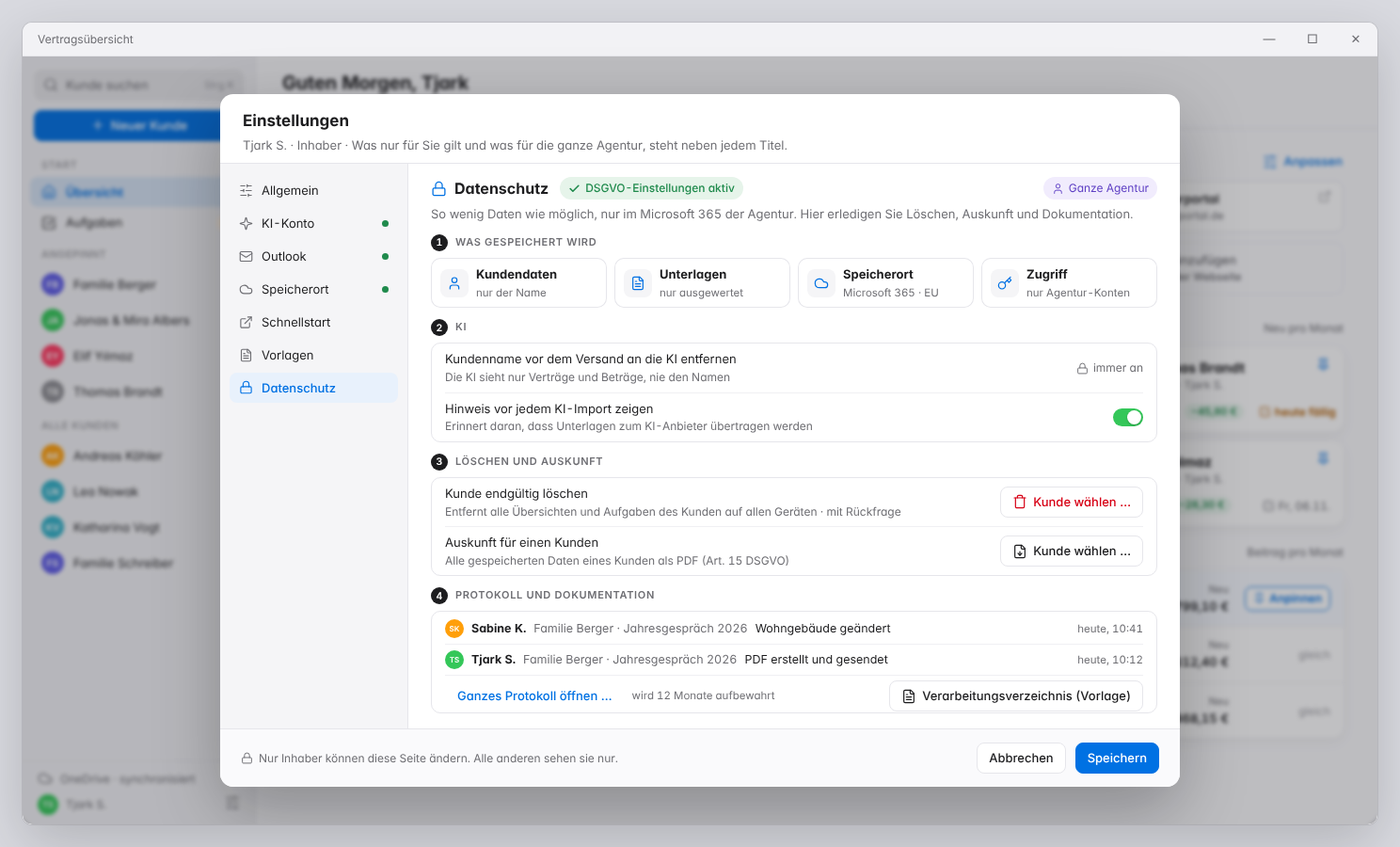
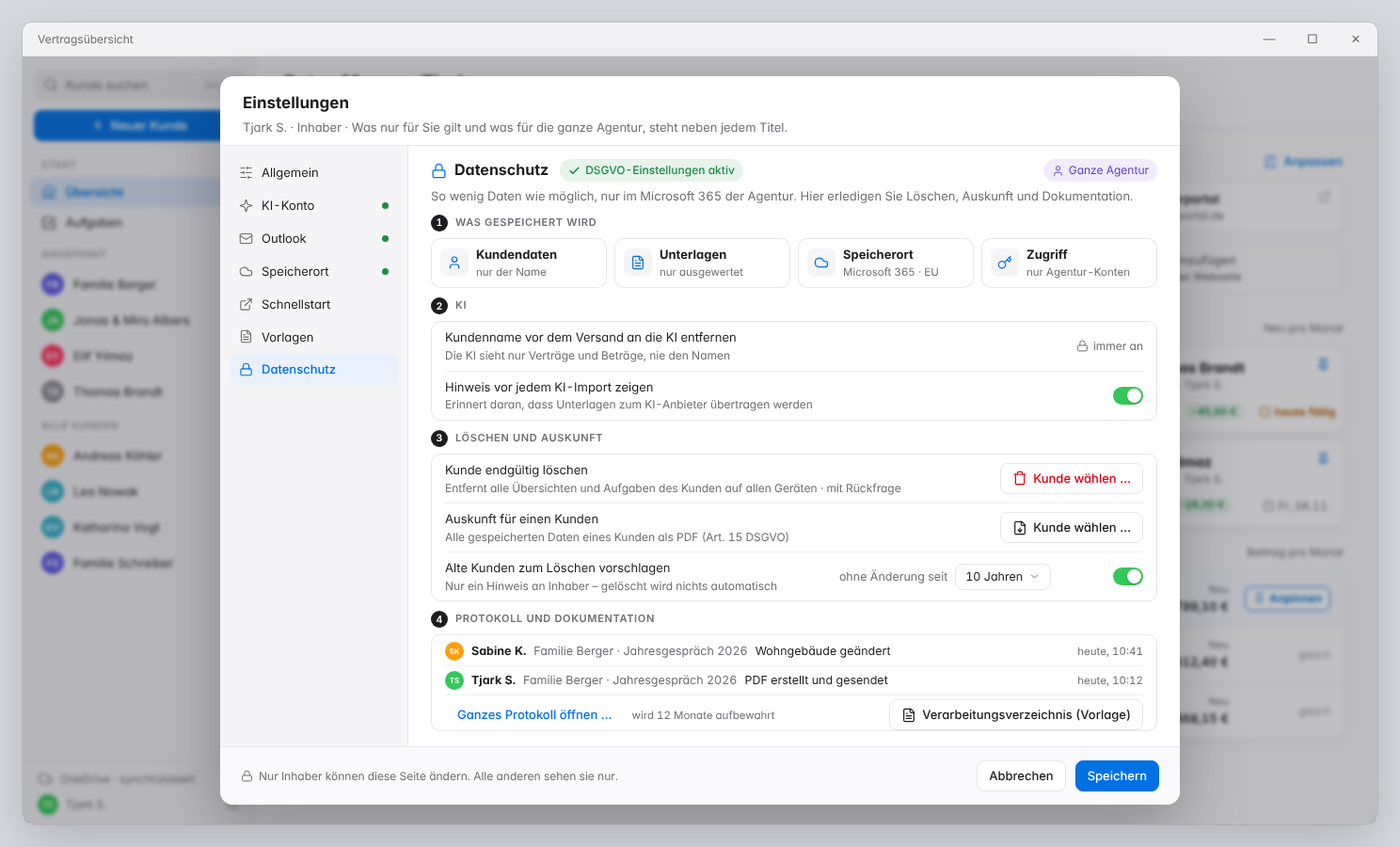
Bild 16 v1: Aufbewahrung – alte Kunden zum Löschen vorschlagen
Claude-Session: https://claude.ai/code/session_01AQcgmB5JhXXMxFr524NBj8

Changed region(s): [[0.1546, 0.0622, 0.8656, 0.9644], [0.6183, 0.56, 0.8347, 0.6844], [0.7728, 0.4044, 0.8347, 0.4978]]

diff --git a/mockups/einstellungen-datenschutz.html b/mockups/einstellungen-datenschutz.html
@@ -16,7 +16,7 @@
     <div class="row"><svg class="i" viewBox="0 0 24 24"><path d="M17.5 19H9a7 7 0 1 1 6.71-9h1.79a4.5 4.5 0 1 1 0 9Z"/></svg> OneDrive · synchronisiert <span class="dot" style="margin-left:auto"></span></div>
     <div class="row"><span class="avatar a4" style="width:22px;height:22px;font-size:9px">TS</span> Tjark S. <span style="margin-left:auto"><svg class="i" viewBox="0 0 24 24"><line x1="21" x2="14" y1="4" y2="4"/><line x1="10" x2="3" y1="4" y2="4"/><line x1="21" x2="12" y1="12" y2="12"/><line x1="8" x2="3" y1="12" y2="12"/><line x1="21" x2="16" y1="20" y2="20"/><line x1="12" x2="3" y1="20" y2="20"/><line x1="14" x2="14" y1="2" y2="6"/><line x1="8" x2="8" y1="10" y2="14"/><line x1="16" x2="16" y1="18" y2="22"/></svg></span></div>
   </div>
-</aside><main class="main"><div class="toolbar start"><div><h1>Guten Morgen, Tjark</h1><div class="datum">Montag, 2. November 2026</div></div></div><div class="content narrow start"><div class="section-title">Schnellstart<span class="spacer"></span><span class="btn ghost" style="padding:0"><svg class="i" viewBox="0 0 24 24"><line x1="21" x2="14" y1="4" y2="4"/><line x1="10" x2="3" y1="4" y2="4"/><line x1="21" x2="12" y1="12" y2="12"/><line x1="8" x2="3" y1="12" y2="12"/><line x1="21" x2="16" y1="20" y2="20"/><line x1="12" x2="3" y1="20" y2="20"/><line x1="14" x2="14" y1="2" y2="6"/><line x1="8" x2="8" y1="10" y2="14"/><line x1="16" x2="16" y1="18" y2="22"/></svg> Anpassen</span></div><div class="links"><div class="lnk"><span class="sym" style="color:#0a64d0;background:#0a64d014"><svg class="i" viewBox="0 0 24 24"><rect width="20" height="16" x="2" y="4" rx="2"/><path d="m22 7-8.97 5.7a1.94 1.94 0 0 1-2.06 0L2 7"/></svg></span><div><b>Outlook</b><small>App</small></div><svg class="i ext" viewBox="0 0 24 24"><path d="M15 3h6v6"/><path d="M10 14 21 3"/><path d="M18 13v6a2 2 0 0 1-2 2H5a2 2 0 0 1-2-2V8a2 2 0 0 1 2-2h6"/></svg></div><div class="lnk"><span class="sym" style="color:#4b53bc;background:#4b53bc14"><svg class="i" viewBox="0 0 24 24"><path d="M7.9 20A9 9 0 1 0 4 16.1L2 22Z"/></svg></span><div><b>Teams</b><small>App</small></div><svg class="i ext" viewBox="0 0 24 24"><path d="M15 3h6v6"/><path d="M10 14 21 3"/><path d="M18 13v6a2 2 0 0 1-2 2H5a2 2 0 0 1-2-2V8a2 2 0 0 1 2-2h6"/></svg></div><div class="lnk"><span class="sym" style="color:#d63a5a;background:#d63a5a14"><svg class="i" viewBox="0 0 24 24"><rect width="18" height="18" x="3" y="4" rx="2"/><path d="M16 2v4"/><path d="M8 2v4"/><path d="M3 10h18"/></svg></span><div><b>Kalender</b><small>App</small></div><svg class="i ext" viewBox="0 0 24 24"><path d="M15 3h6v6"/><path d="M10 14 21 3"/><path d="M18 13v6a2 2 0 0 1-2 2H5a2 2 0 0 1-2-2V8a2 2 0 0 1 2-2h6"/></svg></div><div class="lnk"><span class="sym" style="color:#5e5ce6;background:#5e5ce614"><svg class="i" viewBox="0 0 24 24"><circle cx="12" cy="12" r="10"/><path d="M12 2a14.5 14.5 0 0 0 0 20 14.5 14.5 0 0 0 0-20"/><path d="M2 12h20"/></svg></span><div><b>Maklerportal</b><small>maklerportal.de</small></div><svg class="i ext" viewBox="0 0 24 24"><path d="M15 3h6v6"/><path d="M10 14 21 3"/><path d="M18 13v6a2 2 0 0 1-2 2H5a2 2 0 0 1-2-2V8a2 2 0 0 1 2-2h6"/></svg></div><div class="lnk"><span class="sym" style="color:#c77800;background:#c7780014"><svg class="i" viewBox="0 0 24 24"><rect width="16" height="20" x="4" y="2" rx="2"/><line x1="8" x2="16" y1="6" y2="6"/><line x1="16" x2="16" y1="14" y2="18"/><path d="M16 10h.01"/><path d="M12 10h.01"/><path d="M8 10h.01"/><path d="M12 14h.01"/><path d="M8 14h.01"/><path d="M12 18h.01"/><path d="M8 18h.01"/></svg></span><div><b>Vergleichsrechner</b><small>vergleich.de</small></div><svg class="i ext" viewBox="0 0 24 24"><path d="M15 3h6v6"/><path d="M10 14 21 3"/><path d="M18 13v6a2 2 0 0 1-2 2H5a2 2 0 0 1-2-2V8a2 2 0 0 1 2-2h6"/></svg></div><div class="lnk"><span class="sym" style="color:#1f8a4c;background:#1f8a4c14"><svg class="i" viewBox="0 0 24 24"><path d="M19 17h2c.6 0 1-.4 1-1v-3c0-.9-.7-1.7-1.5-1.9C18.7 10.6 16 10 16 10s-1.3-1.4-2.2-2.3c-.5-.4-1.1-.7-1.8-.7H5c-.6 0-1.1.4-1.4.9l-1.4 2.9A3.7 3.7 0 0 0 2 12v4c0 .6.4 1 1 1h2"/><circle cx="7" cy="17" r="2"/><path d="M9 17h6"/><circle cx="17" cy="17" r="2"/></svg></span><div><b>Tarifrechner Kfz</b><small>kfz-tarif.de</small></div><svg class="i ext" viewBox="0 0 24 24"><path d="M15 3h6v6"/><path d="M10 14 21 3"/><path d="M18 13v6a2 2 0 0 1-2 2H5a2 2 0 0 1-2-2V8a2 2 0 0 1 2-2h6"/></svg></div><div class="lnk"><span class="sym" style="color:#1f7f95;background:#1f7f9514"><svg class="i" viewBox="0 0 24 24"><line x1="3" x2="21" y1="22" y2="22"/><line x1="6" x2="6" y1="18" y2="11"/><line x1="10" x2="10" y1="18" y2="11"/><line x1="14" x2="14" y1="18" y2="11"/><line x1="18" x2="18" y1="18" y2="11"/><polygon points="12 2 20 7 4 7"/></svg></span><div><b>Bank-Portal</b><small>bank-partner.de</small></div><svg class="i ext" viewBox="0 0 24 24"><path d="M15 3h6v6"/><path d="M10 14 21 3"/><path d="M18 13v6a2 2 0 0 1-2 2H5a2 2 0 0 1-2-2V8a2 2 0 0 1 2-2h6"/></svg></div><div class="lnk add"><span class="sym"><svg class="i" viewBox="0 0 24 24"><path d="M5 12h14"/><path d="M12 5v14"/></svg></span><div><b>Link hinzufügen</b><small>App oder Webseite</small></div></div></div><div class="grid-start"><div><div class="section-title">Aufgaben<span class="spacer"></span><span class="btn ghost" style="padding:0"><svg class="i" viewBox="0 0 24 24"><path d="M5 12h14"/><path d="M12 5v14"/></svg> Aufgabe</span></div><div class="panel"><div class="tgroup rot"><span>Überfällig</span><em>1</em></div><div class="trow"><span class="box"></span><div class="tmain"><div class="kunde"><span class="avatar a1">FB</span>Familie Berger</div><div class="ttext">Kfz-Angebot senden</div></div><div class="tside"><span class="prio"><svg class="i" viewBox="0 0 24 24"><path d="M4 15s1-1 4-1 5 2 8 2 4-1 4-1V3s-1 1-4 1-5-2-8-2-4 1-4 1z"/><line x1="4" x2="4" y1="22" y2="15"/></svg> Hoch</span><span class="due over">seit 2 Tagen</span></div><span class="go"><svg class="i" viewBox="0 0 24 24"><path d="m9 18 6-6-6-6"/></svg></span></div><div class="tgroup orange"><span>Heute</span><em>2</em></div><div class="trow hover"><span class="box"></span><div class="tmain"><div class="kunde"><span class="avatar ">TB</span>Thomas Brandt</div><div class="ttext">Unterlagen BU-Antrag anfordern</div></div><div class="tside"><span class="prio"><svg class="i" viewBox="0 0 24 24"><path d="M4 15s1-1 4-1 5 2 8 2 4-1 4-1V3s-1 1-4 1-5-2-8-2-4 1-4 1z"/><line x1="4" x2="4" y1="22" y2="15"/></svg> Hoch</span><span class="due today">heute</span></div><span class="go on">Übersicht öffnen <svg class="i" viewBox="0 0 24 24"><path d="m9 18 6-6-6-6"/></svg></span></div><div class="trow"><span class="box"></span><div class="tmain"><div class="kunde"><span class="avatar a3">LN</span>Lea Nowak</div><div class="ttext">Rückruf wegen Bausparvertrag</div></div><div class="tside"><span class="due today">heute</span></div><span class="go"><svg class="i" viewBox="0 0 24 24"><path d="m9 18 6-6-6-6"/></svg></span></div><div class="tgroup "><span>Diese Woche</span><em>2</em></div><div class="trow"><span class="box"></span><div class="tmain"><div class="kunde"><span class="avatar a4">JA</span>Jonas & Mira Albers</div><div class="ttext">Termin Baufinanzierung vorbereiten</div></div><div class="tside"><span class="due ">Do, 05.11.</span></div><span class="go"><svg class="i" viewBox="0 0 24 24"><path d="m9 18 6-6-6-6"/></svg></span></div><div class="trow"><span class="box"></span><div class="tmain"><div class="kunde"><span class="avatar a5">EY</span>Elif Yılmaz</div><div class="ttext">Hausrat-Angebot nachfassen</div></div><div class="tside"><span class="due ">Fr, 06.11.</span></div><span class="go"><svg class="i" viewBox="0 0 24 24"><path d="m9 18 6-6-6-6"/></svg></span></div><div class="tmore">Später: 2 weitere Aufgaben anzeigen</div></div></div><div><div class="section-title"><svg class="i pin-t" viewBox="0 0 24 24"><path d="M12 17v5"/><path d="M9 10.76a2 2 0 0 1-1.11 1.79l-1.78.9A2 2 0 0 0 5 15.24V16a1 1 0 0 0 1 1h12a1 1 0 0 0 1-1v-.76a2 2 0 0 0-1.11-1.79l-1.78-.9A2 2 0 0 1 15 10.76V7a1 1 0 0 1 1-1 2 2 0 0 0 0-4H8a2 2 0 0 0 0 4 1 1 0 0 1 1 1z"/></svg> Angepinnt<span class="hdr-note">4 von 4</span><span class="spacer"></span><span class="hdr-note">Neu pro Monat</span></div><div class="pins"><div class="pcard"><div class="ptop"><span class="avatar a1">FB</span><div class="cmain"><b>Familie Berger</b><small><span class="live"><span class="avatar a2">SK</span>Sabine K. ist gerade drin</span></small></div><svg class="i pin" viewBox="0 0 24 24"><path d="M12 17v5"/><path d="M9 10.76a2 2 0 0 1-1.11 1.79l-1.78.9A2 2 0 0 0 5 15.24V16a1 1 0 0 0 1 1h12a1 1 0 0 0 1-1v-.76a2 2 0 0 0-1.11-1.79l-1.78-.9A2 2 0 0 1 15 10.76V7a1 1 0 0 1 1-1 2 2 0 0 0 0-4H8a2 2 0 0 0 0 4 1 1 0 0 1 1 1z"/></svg></div><div class="pvals"><b>2.007,85 €</b><span class="badge green">−25,40 €</span><span class="spacer"></span><span class="pt over"><svg class="i" viewBox="0 0 24 24"><path d="M21 10.5V19a2 2 0 0 1-2 2H5a2 2 0 0 1-2-2V5a2 2 0 0 1 2-2h12.5"/><path d="m9 11 3 3L22 4"/></svg> überfällig</span></div></div><div class="pcard"><div class="ptop"><span class="avatar ">TB</span><div class="cmain"><b>Thomas Brandt</b><small>29.10. · Tjark S.</small></div><svg class="i pin" viewBox="0 0 24 24"><path d="M12 17v5"/><path d="M9 10.76a2 2 0 0 1-1.11 1.79l-1.78.9A2 2 0 0 0 5 15.24V16a1 1 0 0 0 1 1h12a1 1 0 0 0 1-1v-.76a2 2 0 0 0-1.11-1.79l-1.78-.9A2 2 0 0 1 15 10.76V7a1 1 0 0 1 1-1 2 2 0 0 0 0-4H8a2 2 0 0 0 0 4 1 1 0 0 1 1 1z"/></svg></div><div class="pvals"><b>1.483,20 €</b><span class="badge green">−45,80 €</span><span class="spacer"></span><span class="pt today"><svg class="i" viewBox="0 0 24 24"><path d="M21 10.5V19a2 2 0 0 1-2 2H5a2 2 0 0 1-2-2V5a2 2 0 0 1 2-2h12.5"/><path d="m9 11 3 3L22 4"/></svg> heute fällig</span></div></div><div class="pcard"><div class="ptop"><span class="avatar a4">JA</span><div class="cmain"><b>Jonas & Mira Albers</b><small>26.10. · Sabine K.</small></div><svg class="i pin" viewBox="0 0 24 24"><path d="M12 17v5"/><path d="M9 10.76a2 2 0 0 1-1.11 1.79l-1.78.9A2 2 0 0 0 5 15.24V16a1 1 0 0 0 1 1h12a1 1 0 0 0 1-1v-.76a2 2 0 0 0-1.11-1.79l-1.78-.9A2 2 0 0 1 15 10.76V7a1 1 0 0 1 1-1 2 2 0 0 0 0-4H8a2 2 0 0 0 0 4 1 1 0 0 1 1 1z"/></svg></div><div class="pvals"><b>2.388,10 €</b><span class="badge green">−27,50 €</span><span class="spacer"></span><span class="pt "><svg class="i" viewBox="0 0 24 24"><path d="M21 10.5V19a2 2 0 0 1-2 2H5a2 2 0 0 1-2-2V5a2 2 0 0 1 2-2h12.5"/><path d="m9 11 3 3L22 4"/></svg> Do, 05.11.</span></div></div><div class="pcard"><div class="ptop"><span class="avatar a5">EY</span><div class="cmain"><b>Elif Yılmaz</b><small>22.10. · Tjark S.</small></div><svg class="i pin" viewBox="0 0 24 24"><path d="M12 17v5"/><path d="M9 10.76a2 2 0 0 1-1.11 1.79l-1.78.9A2 2 0 0 0 5 15.24V16a1 1 0 0 0 1 1h12a1 1 0 0 0 1-1v-.76a2 2 0 0 0-1.11-1.79l-1.78-.9A2 2 0 0 1 15 10.76V7a1 1 0 0 1 1-1 2 2 0 0 0 0-4H8a2 2 0 0 0 0 4 1 1 0 0 1 1 1z"/></svg></div><div class="pvals"><b>361,20 €</b><span class="badge green">−28,30 €</span><span class="spacer"></span><span class="pt "><svg class="i" viewBox="0 0 24 24"><path d="M21 10.5V19a2 2 0 0 1-2 2H5a2 2 0 0 1-2-2V5a2 2 0 0 1 2-2h12.5"/><path d="m9 11 3 3L22 4"/></svg> Fr, 06.11.</span></div></div></div><div class="section-title" style="margin-top:18px">Zuletzt bearbeitet<span class="spacer"></span><span class="hdr-note">Beitrag pro Monat</span></div><div class="panel"><div class="crow hover"><span class="avatar a3">LN</span><div class="cmain"><b>Lea Nowak</b><small>heute, 09:12 · Tjark S.</small></div><div class="cval"><small>Aktuell</small>847,30 €</div><div class="cval"><small>Neu</small>799,10 €</div><div class="cdiff"><span class="badge green">−48,20 €</span></div><span class="pinbtn on"><svg class="i" viewBox="0 0 24 24"><path d="M12 17v5"/><path d="M9 10.76a2 2 0 0 1-1.11 1.79l-1.78.9A2 2 0 0 0 5 15.24V16a1 1 0 0 0 1 1h12a1 1 0 0 0 1-1v-.76a2 2 0 0 0-1.11-1.79l-1.78-.9A2 2 0 0 1 15 10.76V7a1 1 0 0 1 1-1 2 2 0 0 0 0-4H8a2 2 0 0 0 0 4 1 1 0 0 1 1 1z"/></svg> Anpinnen</span></div><div class="crow"><span class="avatar a2">AK</span><div class="cmain"><b>Andreas Köhler</b><small>gestern · Sabine K.</small></div><div class="cval"><small>Aktuell</small>312,40 €</div><div class="cval"><small>Neu</small>312,40 €</div><div class="cdiff"><span class="diff0">gleich</span></div><span class="pinbtn"><svg class="i" viewBox="0 0 24 24"><path d="M12 17v5"/><path d="M9 10.76a2 2 0 0 1-1.11 1.79l-1.78.9A2 2 0 0 0 5 15.24V16a1 1 0 0 0 1 1h12a1 1 0 0 0 1-1v-.76a2 2 0 0 0-1.11-1.79l-1.78-.9A2 2 0 0 1 15 10.76V7a1 1 0 0 1 1-1 2 2 0 0 0 0-4H8a2 2 0 0 0 0 4 1 1 0 0 1 1 1z"/></svg></span></div><div class="crow"><span class="avatar a3">KV</span><div class="cmain"><b>Katharina Vogt</b><small>27.10. · Tjark S.</small></div><div class="cval"><small>Aktuell</small>468,15 €</div><div class="cval"><small>Neu</small>468,15 €</div><div class="cdiff"><span class="diff0">gleich</span></div><span class="pinbtn"><svg class="i" viewBox="0 0 24 24"><path d="M12 17v5"/><path d="M9 10.76a2 2 0 0 1-1.11 1.79l-1.78.9A2 2 0 0 0 5 15.24V16a1 1 0 0 0 1 1h12a1 1 0 0 0 1-1v-.76a2 2 0 0 0-1.11-1.79l-1.78-.9A2 2 0 0 1 15 10.76V7a1 1 0 0 1 1-1 2 2 0 0 0 0-4H8a2 2 0 0 0 0 4 1 1 0 0 1 1 1z"/></svg></span></div></div></div></div></div></main></div><div class="overlay"><div class="sheet kk1 es1">
+</aside><main class="main"><div class="toolbar start"><div><h1>Guten Morgen, Tjark</h1><div class="datum">Montag, 2. November 2026</div></div></div><div class="content narrow start"><div class="section-title">Schnellstart<span class="spacer"></span><span class="btn ghost" style="padding:0"><svg class="i" viewBox="0 0 24 24"><line x1="21" x2="14" y1="4" y2="4"/><line x1="10" x2="3" y1="4" y2="4"/><line x1="21" x2="12" y1="12" y2="12"/><line x1="8" x2="3" y1="12" y2="12"/><line x1="21" x2="16" y1="20" y2="20"/><line x1="12" x2="3" y1="20" y2="20"/><line x1="14" x2="14" y1="2" y2="6"/><line x1="8" x2="8" y1="10" y2="14"/><line x1="16" x2="16" y1="18" y2="22"/></svg> Anpassen</span></div><div class="links"><div class="lnk"><span class="sym" style="color:#0a64d0;background:#0a64d014"><svg class="i" viewBox="0 0 24 24"><rect width="20" height="16" x="2" y="4" rx="2"/><path d="m22 7-8.97 5.7a1.94 1.94 0 0 1-2.06 0L2 7"/></svg></span><div><b>Outlook</b><small>App</small></div><svg class="i ext" viewBox="0 0 24 24"><path d="M15 3h6v6"/><path d="M10 14 21 3"/><path d="M18 13v6a2 2 0 0 1-2 2H5a2 2 0 0 1-2-2V8a2 2 0 0 1 2-2h6"/></svg></div><div class="lnk"><span class="sym" style="color:#4b53bc;background:#4b53bc14"><svg class="i" viewBox="0 0 24 24"><path d="M7.9 20A9 9 0 1 0 4 16.1L2 22Z"/></svg></span><div><b>Teams</b><small>App</small></div><svg class="i ext" viewBox="0 0 24 24"><path d="M15 3h6v6"/><path d="M10 14 21 3"/><path d="M18 13v6a2 2 0 0 1-2 2H5a2 2 0 0 1-2-2V8a2 2 0 0 1 2-2h6"/></svg></div><div class="lnk"><span class="sym" style="color:#d63a5a;background:#d63a5a14"><svg class="i" viewBox="0 0 24 24"><rect width="18" height="18" x="3" y="4" rx="2"/><path d="M16 2v4"/><path d="M8 2v4"/><path d="M3 10h18"/></svg></span><div><b>Kalender</b><small>App</small></div><svg class="i ext" viewBox="0 0 24 24"><path d="M15 3h6v6"/><path d="M10 14 21 3"/><path d="M18 13v6a2 2 0 0 1-2 2H5a2 2 0 0 1-2-2V8a2 2 0 0 1 2-2h6"/></svg></div><div class="lnk"><span class="sym" style="color:#5e5ce6;background:#5e5ce614"><svg class="i" viewBox="0 0 24 24"><circle cx="12" cy="12" r="10"/><path d="M12 2a14.5 14.5 0 0 0 0 20 14.5 14.5 0 0 0 0-20"/><path d="M2 12h20"/></svg></span><div><b>Maklerportal</b><small>maklerportal.de</small></div><svg class="i ext" viewBox="0 0 24 24"><path d="M15 3h6v6"/><path d="M10 14 21 3"/><path d="M18 13v6a2 2 0 0 1-2 2H5a2 2 0 0 1-2-2V8a2 2 0 0 1 2-2h6"/></svg></div><div class="lnk"><span class="sym" style="color:#c77800;background:#c7780014"><svg class="i" viewBox="0 0 24 24"><rect width="16" height="20" x="4" y="2" rx="2"/><line x1="8" x2="16" y1="6" y2="6"/><line x1="16" x2="16" y1="14" y2="18"/><path d="M16 10h.01"/><path d="M12 10h.01"/><path d="M8 10h.01"/><path d="M12 14h.01"/><path d="M8 14h.01"/><path d="M12 18h.01"/><path d="M8 18h.01"/></svg></span><div><b>Vergleichsrechner</b><small>vergleich.de</small></div><svg class="i ext" viewBox="0 0 24 24"><path d="M15 3h6v6"/><path d="M10 14 21 3"/><path d="M18 13v6a2 2 0 0 1-2 2H5a2 2 0 0 1-2-2V8a2 2 0 0 1 2-2h6"/></svg></div><div class="lnk"><span class="sym" style="color:#1f8a4c;background:#1f8a4c14"><svg class="i" viewBox="0 0 24 24"><path d="M19 17h2c.6 0 1-.4 1-1v-3c0-.9-.7-1.7-1.5-1.9C18.7 10.6 16 10 16 10s-1.3-1.4-2.2-2.3c-.5-.4-1.1-.7-1.8-.7H5c-.6 0-1.1.4-1.4.9l-1.4 2.9A3.7 3.7 0 0 0 2 12v4c0 .6.4 1 1 1h2"/><circle cx="7" cy="17" r="2"/><path d="M9 17h6"/><circle cx="17" cy="17" r="2"/></svg></span><div><b>Tarifrechner Kfz</b><small>kfz-tarif.de</small></div><svg class="i ext" viewBox="0 0 24 24"><path d="M15 3h6v6"/><path d="M10 14 21 3"/><path d="M18 13v6a2 2 0 0 1-2 2H5a2 2 0 0 1-2-2V8a2 2 0 0 1 2-2h6"/></svg></div><div class="lnk"><span class="sym" style="color:#1f7f95;background:#1f7f9514"><svg class="i" viewBox="0 0 24 24"><line x1="3" x2="21" y1="22" y2="22"/><line x1="6" x2="6" y1="18" y2="11"/><line x1="10" x2="10" y1="18" y2="11"/><line x1="14" x2="14" y1="18" y2="11"/><line x1="18" x2="18" y1="18" y2="11"/><polygon points="12 2 20 7 4 7"/></svg></span><div><b>Bank-Portal</b><small>bank-partner.de</small></div><svg class="i ext" viewBox="0 0 24 24"><path d="M15 3h6v6"/><path d="M10 14 21 3"/><path d="M18 13v6a2 2 0 0 1-2 2H5a2 2 0 0 1-2-2V8a2 2 0 0 1 2-2h6"/></svg></div><div class="lnk add"><span class="sym"><svg class="i" viewBox="0 0 24 24"><path d="M5 12h14"/><path d="M12 5v14"/></svg></span><div><b>Link hinzufügen</b><small>App oder Webseite</small></div></div></div><div class="grid-start"><div><div class="section-title">Aufgaben<span class="spacer"></span><span class="btn ghost" style="padding:0"><svg class="i" viewBox="0 0 24 24"><path d="M5 12h14"/><path d="M12 5v14"/></svg> Aufgabe</span></div><div class="panel"><div class="tgroup rot"><span>Überfällig</span><em>1</em></div><div class="trow"><span class="box"></span><div class="tmain"><div class="kunde"><span class="avatar a1">FB</span>Familie Berger</div><div class="ttext">Kfz-Angebot senden</div></div><div class="tside"><span class="prio"><svg class="i" viewBox="0 0 24 24"><path d="M4 15s1-1 4-1 5 2 8 2 4-1 4-1V3s-1 1-4 1-5-2-8-2-4 1-4 1z"/><line x1="4" x2="4" y1="22" y2="15"/></svg> Hoch</span><span class="due over">seit 2 Tagen</span></div><span class="go"><svg class="i" viewBox="0 0 24 24"><path d="m9 18 6-6-6-6"/></svg></span></div><div class="tgroup orange"><span>Heute</span><em>2</em></div><div class="trow hover"><span class="box"></span><div class="tmain"><div class="kunde"><span class="avatar ">TB</span>Thomas Brandt</div><div class="ttext">Unterlagen BU-Antrag anfordern</div></div><div class="tside"><span class="prio"><svg class="i" viewBox="0 0 24 24"><path d="M4 15s1-1 4-1 5 2 8 2 4-1 4-1V3s-1 1-4 1-5-2-8-2-4 1-4 1z"/><line x1="4" x2="4" y1="22" y2="15"/></svg> Hoch</span><span class="due today">heute</span></div><span class="go on">Übersicht öffnen <svg class="i" viewBox="0 0 24 24"><path d="m9 18 6-6-6-6"/></svg></span></div><div class="trow"><span class="box"></span><div class="tmain"><div class="kunde"><span class="avatar a3">LN</span>Lea Nowak</div><div class="ttext">Rückruf wegen Bausparvertrag</div></div><div class="tside"><span class="due today">heute</span></div><span class="go"><svg class="i" viewBox="0 0 24 24"><path d="m9 18 6-6-6-6"/></svg></span></div><div class="tgroup "><span>Diese Woche</span><em>2</em></div><div class="trow"><span class="box"></span><div class="tmain"><div class="kunde"><span class="avatar a4">JA</span>Jonas & Mira Albers</div><div class="ttext">Termin Baufinanzierung vorbereiten</div></div><div class="tside"><span class="due ">Do, 05.11.</span></div><span class="go"><svg class="i" viewBox="0 0 24 24"><path d="m9 18 6-6-6-6"/></svg></span></div><div class="trow"><span class="box"></span><div class="tmain"><div class="kunde"><span class="avatar a5">EY</span>Elif Yılmaz</div><div class="ttext">Hausrat-Angebot nachfassen</div></div><div class="tside"><span class="due ">Fr, 06.11.</span></div><span class="go"><svg class="i" viewBox="0 0 24 24"><path d="m9 18 6-6-6-6"/></svg></span></div><div class="tmore">Später: 2 weitere Aufgaben anzeigen</div></div></div><div><div class="section-title"><svg class="i pin-t" viewBox="0 0 24 24"><path d="M12 17v5"/><path d="M9 10.76a2 2 0 0 1-1.11 1.79l-1.78.9A2 2 0 0 0 5 15.24V16a1 1 0 0 0 1 1h12a1 1 0 0 0 1-1v-.76a2 2 0 0 0-1.11-1.79l-1.78-.9A2 2 0 0 1 15 10.76V7a1 1 0 0 1 1-1 2 2 0 0 0 0-4H8a2 2 0 0 0 0 4 1 1 0 0 1 1 1z"/></svg> Angepinnt<span class="hdr-note">4 von 4</span><span class="spacer"></span><span class="hdr-note">Neu pro Monat</span></div><div class="pins"><div class="pcard"><div class="ptop"><span class="avatar a1">FB</span><div class="cmain"><b>Familie Berger</b><small><span class="live"><span class="avatar a2">SK</span>Sabine K. ist gerade drin</span></small></div><svg class="i pin" viewBox="0 0 24 24"><path d="M12 17v5"/><path d="M9 10.76a2 2 0 0 1-1.11 1.79l-1.78.9A2 2 0 0 0 5 15.24V16a1 1 0 0 0 1 1h12a1 1 0 0 0 1-1v-.76a2 2 0 0 0-1.11-1.79l-1.78-.9A2 2 0 0 1 15 10.76V7a1 1 0 0 1 1-1 2 2 0 0 0 0-4H8a2 2 0 0 0 0 4 1 1 0 0 1 1 1z"/></svg></div><div class="pvals"><b>2.007,85 €</b><span class="badge green">−25,40 €</span><span class="spacer"></span><span class="pt over"><svg class="i" viewBox="0 0 24 24"><path d="M21 10.5V19a2 2 0 0 1-2 2H5a2 2 0 0 1-2-2V5a2 2 0 0 1 2-2h12.5"/><path d="m9 11 3 3L22 4"/></svg> überfällig</span></div></div><div class="pcard"><div class="ptop"><span class="avatar ">TB</span><div class="cmain"><b>Thomas Brandt</b><small>29.10. · Tjark S.</small></div><svg class="i pin" viewBox="0 0 24 24"><path d="M12 17v5"/><path d="M9 10.76a2 2 0 0 1-1.11 1.79l-1.78.9A2 2 0 0 0 5 15.24V16a1 1 0 0 0 1 1h12a1 1 0 0 0 1-1v-.76a2 2 0 0 0-1.11-1.79l-1.78-.9A2 2 0 0 1 15 10.76V7a1 1 0 0 1 1-1 2 2 0 0 0 0-4H8a2 2 0 0 0 0 4 1 1 0 0 1 1 1z"/></svg></div><div class="pvals"><b>1.483,20 €</b><span class="badge green">−45,80 €</span><span class="spacer"></span><span class="pt today"><svg class="i" viewBox="0 0 24 24"><path d="M21 10.5V19a2 2 0 0 1-2 2H5a2 2 0 0 1-2-2V5a2 2 0 0 1 2-2h12.5"/><path d="m9 11 3 3L22 4"/></svg> heute fällig</span></div></div><div class="pcard"><div class="ptop"><span class="avatar a4">JA</span><div class="cmain"><b>Jonas & Mira Albers</b><small>26.10. · Sabine K.</small></div><svg class="i pin" viewBox="0 0 24 24"><path d="M12 17v5"/><path d="M9 10.76a2 2 0 0 1-1.11 1.79l-1.78.9A2 2 0 0 0 5 15.24V16a1 1 0 0 0 1 1h12a1 1 0 0 0 1-1v-.76a2 2 0 0 0-1.11-1.79l-1.78-.9A2 2 0 0 1 15 10.76V7a1 1 0 0 1 1-1 2 2 0 0 0 0-4H8a2 2 0 0 0 0 4 1 1 0 0 1 1 1z"/></svg></div><div class="pvals"><b>2.388,10 €</b><span class="badge green">−27,50 €</span><span class="spacer"></span><span class="pt "><svg class="i" viewBox="0 0 24 24"><path d="M21 10.5V19a2 2 0 0 1-2 2H5a2 2 0 0 1-2-2V5a2 2 0 0 1 2-2h12.5"/><path d="m9 11 3 3L22 4"/></svg> Do, 05.11.</span></div></div><div class="pcard"><div class="ptop"><span class="avatar a5">EY</span><div class="cmain"><b>Elif Yılmaz</b><small>22.10. · Tjark S.</small></div><svg class="i pin" viewBox="0 0 24 24"><path d="M12 17v5"/><path d="M9 10.76a2 2 0 0 1-1.11 1.79l-1.78.9A2 2 0 0 0 5 15.24V16a1 1 0 0 0 1 1h12a1 1 0 0 0 1-1v-.76a2 2 0 0 0-1.11-1.79l-1.78-.9A2 2 0 0 1 15 10.76V7a1 1 0 0 1 1-1 2 2 0 0 0 0-4H8a2 2 0 0 0 0 4 1 1 0 0 1 1 1z"/></svg></div><div class="pvals"><b>361,20 €</b><span class="badge green">−28,30 €</span><span class="spacer"></span><span class="pt "><svg class="i" viewBox="0 0 24 24"><path d="M21 10.5V19a2 2 0 0 1-2 2H5a2 2 0 0 1-2-2V5a2 2 0 0 1 2-2h12.5"/><path d="m9 11 3 3L22 4"/></svg> Fr, 06.11.</span></div></div></div><div class="section-title" style="margin-top:18px">Zuletzt bearbeitet<span class="spacer"></span><span class="hdr-note">Beitrag pro Monat</span></div><div class="panel"><div class="crow hover"><span class="avatar a3">LN</span><div class="cmain"><b>Lea Nowak</b><small>heute, 09:12 · Tjark S.</small></div><div class="cval"><small>Aktuell</small>847,30 €</div><div class="cval"><small>Neu</small>799,10 €</div><div class="cdiff"><span class="badge green">−48,20 €</span></div><span class="pinbtn on"><svg class="i" viewBox="0 0 24 24"><path d="M12 17v5"/><path d="M9 10.76a2 2 0 0 1-1.11 1.79l-1.78.9A2 2 0 0 0 5 15.24V16a1 1 0 0 0 1 1h12a1 1 0 0 0 1-1v-.76a2 2 0 0 0-1.11-1.79l-1.78-.9A2 2 0 0 1 15 10.76V7a1 1 0 0 1 1-1 2 2 0 0 0 0-4H8a2 2 0 0 0 0 4 1 1 0 0 1 1 1z"/></svg> Anpinnen</span></div><div class="crow"><span class="avatar a2">AK</span><div class="cmain"><b>Andreas Köhler</b><small>gestern · Sabine K.</small></div><div class="cval"><small>Aktuell</small>312,40 €</div><div class="cval"><small>Neu</small>312,40 €</div><div class="cdiff"><span class="diff0">gleich</span></div><span class="pinbtn"><svg class="i" viewBox="0 0 24 24"><path d="M12 17v5"/><path d="M9 10.76a2 2 0 0 1-1.11 1.79l-1.78.9A2 2 0 0 0 5 15.24V16a1 1 0 0 0 1 1h12a1 1 0 0 0 1-1v-.76a2 2 0 0 0-1.11-1.79l-1.78-.9A2 2 0 0 1 15 10.76V7a1 1 0 0 1 1-1 2 2 0 0 0 0-4H8a2 2 0 0 0 0 4 1 1 0 0 1 1 1z"/></svg></span></div><div class="crow"><span class="avatar a3">KV</span><div class="cmain"><b>Katharina Vogt</b><small>27.10. · Tjark S.</small></div><div class="cval"><small>Aktuell</small>468,15 €</div><div class="cval"><small>Neu</small>468,15 €</div><div class="cdiff"><span class="diff0">gleich</span></div><span class="pinbtn"><svg class="i" viewBox="0 0 24 24"><path d="M12 17v5"/><path d="M9 10.76a2 2 0 0 1-1.11 1.79l-1.78.9A2 2 0 0 0 5 15.24V16a1 1 0 0 0 1 1h12a1 1 0 0 0 1-1v-.76a2 2 0 0 0-1.11-1.79l-1.78-.9A2 2 0 0 1 15 10.76V7a1 1 0 0 1 1-1 2 2 0 0 0 0-4H8a2 2 0 0 0 0 4 1 1 0 0 1 1 1z"/></svg></span></div></div></div></div></div></main></div><div class="overlay"><div class="sheet kk1 es1 dsg1">
 <header><h2>Einstellungen</h2><p>Tjark S. · Inhaber · Was nur für Sie gilt und was für die ganze Agentur, steht neben jedem Titel.</p></header>
 <div class="kk-grid">
  <nav class="kk-nav"><div class="kk-nav-i"><svg class="i" viewBox="0 0 24 24"><line x1="21" x2="14" y1="4" y2="4"/><line x1="10" x2="3" y1="4" y2="4"/><line x1="21" x2="12" y1="12" y2="12"/><line x1="8" x2="3" y1="12" y2="12"/><line x1="21" x2="16" y1="20" y2="20"/><line x1="12" x2="3" y1="20" y2="20"/><line x1="14" x2="14" y1="2" y2="6"/><line x1="8" x2="8" y1="10" y2="14"/><line x1="16" x2="16" y1="18" y2="22"/></svg>Allgemein</div><div class="kk-nav-i"><svg class="i" viewBox="0 0 24 24"><path d="M9.937 15.5A2 2 0 0 0 8.5 14.063l-6.135-1.582a.5.5 0 0 1 0-.962L8.5 9.936A2 2 0 0 0 9.937 8.5l1.582-6.135a.5.5 0 0 1 .963 0L14.063 8.5A2 2 0 0 0 15.5 9.937l6.135 1.581a.5.5 0 0 1 0 .964L15.5 14.063a2 2 0 0 0-1.437 1.437l-1.582 6.135a.5.5 0 0 1-.963 0z"/></svg>KI-Konto<span class=dot></span></div><div class="kk-nav-i"><svg class="i" viewBox="0 0 24 24"><rect width="20" height="16" x="2" y="4" rx="2"/><path d="m22 7-8.97 5.7a1.94 1.94 0 0 1-2.06 0L2 7"/></svg>Outlook<span class=dot></span></div><div class="kk-nav-i"><svg class="i" viewBox="0 0 24 24"><path d="M17.5 19H9a7 7 0 1 1 6.71-9h1.79a4.5 4.5 0 1 1 0 9Z"/></svg>Speicherort<span class=dot></span></div><div class="kk-nav-i"><svg class="i" viewBox="0 0 24 24"><path d="M15 3h6v6"/><path d="M10 14 21 3"/><path d="M18 13v6a2 2 0 0 1-2 2H5a2 2 0 0 1-2-2V8a2 2 0 0 1 2-2h6"/></svg>Schnellstart</div><div class="kk-nav-i"><svg class="i" viewBox="0 0 24 24"><path d="M15 2H6a2 2 0 0 0-2 2v16a2 2 0 0 0 2 2h12a2 2 0 0 0 2-2V7Z"/><path d="M14 2v4a2 2 0 0 0 2 2h4"/><path d="M16 13H8"/><path d="M16 17H8"/><path d="M10 9H8"/></svg>Vorlagen</div><div class="kk-nav-i on"><svg class="i" viewBox="0 0 24 24"><rect width="18" height="11" x="3" y="11" rx="2" ry="2"/><path d="M7 11V7a5 5 0 0 1 10 0v4"/></svg>Datenschutz</div></nav>
@@ -32,6 +32,7 @@
   <div class="ex-box">
    <div class="optrow"><div>Kunde endgültig löschen<small>Entfernt alle Übersichten und Aufgaben des Kunden auf allen Geräten · mit Rückfrage</small></div><button class="btn ds-rot"><svg class="i" viewBox="0 0 24 24"><path d="M3 6h18"/><path d="M19 6v14c0 1-1 2-2 2H7c-1 0-2-1-2-2V6"/><path d="M8 6V4c0-1 1-2 2-2h4c1 0 2 1 2 2v2"/></svg> Kunde wählen …</button></div>
    <div class="optrow"><div>Auskunft für einen Kunden<small>Alle gespeicherten Daten eines Kunden als PDF (Art. 15 DSGVO)</small></div><button class="btn"><svg class="i" viewBox="0 0 24 24"><path d="M15 2H6a2 2 0 0 0-2 2v16a2 2 0 0 0 2 2h12a2 2 0 0 0 2-2V7Z"/><path d="M14 2v4a2 2 0 0 0 2 2h4"/><path d="M12 18v-6"/><path d="m9 15 3 3 3-3"/></svg> Kunde wählen …</button></div>
+   <div class="optrow"><div>Alte Kunden zum Löschen vorschlagen<small>Nur ein Hinweis an Inhaber – gelöscht wird nichts automatisch</small></div><span class="ds-frist">ohne Änderung seit <span class="kk-input ds-sel">10 Jahren <svg class="i" viewBox="0 0 24 24"><path d="m6 9 6 6 6-6"/></svg></span></span><span class="switch on"><i></i></span></div>
   </div>
   <div class="ex-sec"><span class="kk-n">4</span>Protokoll und Dokumentation</div>
   <div class="ex-box ds-prot"><div class="ds-p"><span class="avatar a2">SK</span><b>Sabine K.</b><span class="ds-p-w">Familie Berger · Jahresgespräch 2026</span><span class="ds-p-t">Wohngebäude geändert</span><span class="spacer"></span><small>heute, 10:41</small></div><div class="ds-p"><span class="avatar a4">TS</span><b>Tjark S.</b><span class="ds-p-w">Familie Berger · Jahresgespräch 2026</span><span class="ds-p-t">PDF erstellt und gesendet</span><span class="spacer"></span><small>heute, 10:12</small></div>

diff --git a/mockups/style.css b/mockups/style.css
@@ -1508,3 +1508,11 @@ td.v2-lz .edit-cell { display: block; }
 .ds-hint { color: var(--muted); font-size: 11.5px; }
 .ds-p-fuss .btn.ds-r { margin-left: auto; }
 .ds-p small { margin-left: auto; }
+.ds-frist { display: inline-flex; align-items: center; gap: 8px; font-size: 12.5px; color: var(--muted); white-space: nowrap; }
+.kk-input.ds-sel { display: inline-flex; align-items: center; gap: 6px; height: 28px; padding: 0 10px; color: var(--text); }
+.kk-input.ds-sel svg.i { width: 13px; height: 13px; }
+.sheet.dsg1 { max-height: calc(100% - 24px); }
+.dsg1 .ex-sec { margin-top: 10px; }
+.dsg1 .optrow { padding-top: 7px; padding-bottom: 7px; }
+.dsg1 .ds-p { padding: 5px 0; }
+.dsg1 .ds-p-fuss { padding: 4px 0 0; }

diff --git a/mockups/werkzeug/generieren.py b/mockups/werkzeug/generieren.py
@@ -1818,6 +1818,7 @@ def datenschutz_overlay_v1():
   <div class="ex-box">
    <div class="optrow"><div>Kunde endgültig löschen<small>Entfernt alle Übersichten und Aufgaben des Kunden auf allen Geräten · mit Rückfrage</small></div><button class="btn ds-rot">{ic("trash")} Kunde wählen …</button></div>
    <div class="optrow"><div>Auskunft für einen Kunden<small>Alle gespeicherten Daten eines Kunden als PDF (Art. 15 DSGVO)</small></div><button class="btn">{ic("pdf")} Kunde wählen …</button></div>
+   <div class="optrow"><div>Alte Kunden zum Löschen vorschlagen<small>Nur ein Hinweis an Inhaber – gelöscht wird nichts automatisch</small></div><span class="ds-frist">ohne Änderung seit <span class="kk-input ds-sel">10 Jahren {ic("down")}</span></span>{es_sw(True)}</div>
   </div>
   <div class="ex-sec"><span class="kk-n">4</span>Protokoll und Dokumentation</div>
   <div class="ex-box ds-prot">{ph}
@@ -1825,7 +1826,7 @@ def datenschutz_overlay_v1():
   </div>'''
     fuss = (f'<span class="kk-fuss">{ic("lock")} Nur Inhaber können diese Seite ändern. Alle anderen sehen sie nur.</span>'
             f'<span class="spacer"></span><button class="btn">Abbrechen</button><button class="btn primary">Speichern</button>')
-    return einst_overlay_v1('Datenschutz', titel, inhalt, fuss)
+    return einst_overlay_v1('Datenschutz', titel, inhalt, fuss).replace('sheet kk1 es1', 'sheet kk1 es1 dsg1', 1)
 
 
 # ---------------- Index ----------------

diff --git a/HANDOFF.md b/HANDOFF.md
@@ -195,7 +195,7 @@ Konkret unübersichtlich:
 | 13 Abgewählter Bereich (neu) | ✅ **v1 freigegeben** (Sitzung 18, „Freigeben“, ohne Änderungswünsche) | Darlehen per Kästchen in der Bereichsleiste abgewählt: Kästchen leer, Name grau · Bereich klappt an seinem Platz zu einer grauen, gestrichelten Leiste zusammen (Nummer 3, „abgewählt“, „2 Untergruppen · 2 Verträge bleiben gespeichert“, durchgestrichen Rate 1.439,00 €/Monat · Restschuld, „zählt nicht zum Gesamtbetrag, nicht im PDF“, Knopf **Wieder zuschalten**) · Gesamtbetrag oben „ohne Darlehen“ 594,25 € statt 2.033,25 €, unten „3 von 4 Bereichen“ · Hinweis unten mit Rückgängig (Strg+Z) · keine Rückfrage, kein Menü („…“ im Bereichskopf entfällt). Festgelegt/zu bestätigen: Auswahl gilt je Fassung, bei Sync an wird sie in „Neu“ übernommen; PDF nummeriert die übrigen Bereiche neu (1–3); in der App bleibt die Nummer. Offene Frage (d) Bild 2–4 anpassen ebenfalls gestellt |
 | 14 Sync-Schalter „In „Neu“ übernehmen“ (neu) | ✅ **v2 freigegeben** (Sitzung 19, „Freigeben“) | **Regel des Nutzers zu v1 (verbindlich):** „Wenn der Schalter aktiviert ist, sollen Änderungen synchronisiert werden; sobald der Schalter aus ist, sollen für diese Zeit keine weiteren Änderungen übertragen werden. Nicht rückwirkend, sondern nur, wenn der Schalter aktiviert ist.“ → **v2:** Einzel-Übernehmen am Wert und Hinweis „seitdem geändert“ **entfernt** (was bei „aus“ geändert wird, kommt nie nach „Neu“, auch nicht beim Wiedereinschalten). Leiste in „Neu“: „Übernehmen ist aus – Änderungen in „Aktuell“ werden nicht nach „Neu“ übertragen“ · „Wieder eingeschaltet wird nur übernommen, was Sie ab dann ändern – nichts rückwirkend“ · Knopf Wieder einschalten. Erklärkarte „Aus“ entsprechend umformuliert. Bilder `14-sync-an-v2.png`, `14-sync-aus-v2.png`. Mit v2 freigegeben (im Bild sichtbar, ausdrücklich gefragt, ohne Widerspruch): in „Neu“ selbst geänderte Werte werden bei „an“ nicht überschrieben (Wohngebäude 540,00 €). Eigene Ideen (offen, Nutzer hat Auswahl-Dialog abgelehnt): Kennzeichen ↻ auch in „Neu“, nach PDF von „Neu“ Ausschalten vorschlagen. **Vorab beantwortet (Sitzung 19):** (a) Bereichsauswahl gilt **je Fassung** (bei Sync an wird Abwählen in „Neu“ übernommen) – bestätigt. (b) Bilder 2–4 **an Leitlinie aus Bild 12 anpassen** (Mülleimer statt „…“ an Untergruppen, × an Verträgen, kein „…“ im Bereichskopf) – ja, nach Bild 14. **v1, zwei Bilder.** (a) `14-sync-an-v1.png`: Ansicht „Aktuell“, Hausrat wird gerade von 145,20 € auf 158,40 € geändert (nur Cursor, kein Feld), darunter grün „↻ auch in „Neu““. Am Schalter (beim Darüberfahren und einmal beim ersten Öffnen) eine **Erklärkarte**: „gilt nur für diese Übersicht“ · **An** – was Sie in „Aktuell“ eintragen, ändern, löschen oder abwählen, passiert sofort auch in „Neu“; Ausnahme: in „Neu“ selbst geänderte Werte bleiben (z. B. Wohngebäude 540,00 €) · **Aus** – „Neu“ bleibt, nichts rückwirkend; wieder an = nur spätere Änderungen · Beispielzeile „Gerade: Hausrat 158,40 € → steht jetzt auch in „Neu““. (b) `14-sync-aus-v1.png`: Ansicht „Neu“, Schalter grau. Unter der Änderungsleiste graue gestrichelte Leiste (Stil wie Bild 13): „**Übernehmen ist aus** – „Neu“ bleibt, wie es ist …“, „Ausgeschaltet heute, 10:42 von Tjark S. · seitdem in „Aktuell“ geändert: 1 Wert (Hausrat)“, Knopf **Wieder einschalten**. Am Hausrat in „Neu“ (145,20 €) orange „in „Aktuell“ 158,40 €“ + Ein-Klick-Knopf **Übernehmen** (nur dieser Wert). Direkt nach dem Ausschalten Hinweis mit Rückgängig (Strg+Z), im Bild nicht gezeigt. Keine Rückfrage, kein Menü. Code: `sync_an_v1`, `sync_aus_v1`, CSS „Bild 14 v1“. |
 | 15 Gemeinsam bearbeiten (neu, offener Punkt 1) | ✅ **v1 freigegeben** (Sitzung 23, „Freigeben“, ohne Änderungswünsche) | **(a)** `15-mehrbenutzer-v1.png`: Tjark S. tippt in der Bemerkung von Hausrat (blauer Cursor); gleichzeitig bearbeitet **Sabine K.** den Beitrag von Wohngebäude: Zeile zart orange mit oranger Linie links, oranger Cursor + Namensschild „Sabine K.“ am Feld. Rechtsschutz: Bemerkung gerade von Sabine ergänzt („Vermieter“ orange hinterlegt) + Zeile „geändert von Sabine K. · gerade eben“ (verschwindet nach einigen Sekunden). Klick auf Kürzel „SK“ neben dem Titel öffnet Karte: „Sabine K. arbeitet gerade auch hier · seit 10:38 · in „Aktuell““, Ort „Wohnen › Wohngebäude“ + „Hinspringen“, drei Regeln: niemand wird gesperrt · Änderungen nach wenigen Sekunden sichtbar · ändern beide denselben Wert, gilt der zuletzt eingegebene. Seitenleiste unten „OneDrive · alles gespeichert“ (grün). **(b)** `15-mehrbenutzer-offline-v1.png`: Seitenleiste „Offline · 3 Änderungen warten“ (orange), Kürzel „SK“ weg (Anwesenheit unbekannt), Hinweis unten „Keine Verbindung zu OneDrive – Sie können normal weiterarbeiten … automatisch zusammengeführt“. Sonst wie Bild 2 v3 (Leitlinie). |
-| 16 Einstellungen → Datenschutz (neu, offener Punkt 7) | **v1 gezeigt** (Sitzung 23), Rückmeldung offen | Einstellungsdialog wie Bild 8, Seite **Datenschutz**, Kennzeichen „Ganze Agentur“, Status „DSGVO-Einstellungen aktiv“. **1 Was gespeichert wird:** 4 Kacheln Kundendaten (nur der Name) · Unterlagen (nur ausgewertet) · Speicherort (Microsoft 365 · EU) · Zugriff (nur Agentur-Konten). **2 KI:** Kundenname vor dem Versand entfernen (immer an, nicht abschaltbar) · Hinweis vor jedem KI-Import (Schalter an). **3 Löschen und Auskunft:** „Kunde endgültig löschen“ (roter Knopf „Kunde wählen …“, alle Übersichten/Aufgaben auf allen Geräten, mit Rückfrage) · „Auskunft für einen Kunden“ (alle Daten als PDF, Art. 15). **4 Protokoll und Dokumentation:** letzte Einträge (wer, welche Übersicht, was, wann), „Ganzes Protokoll öffnen …“, 12 Monate aufbewahrt, Knopf „Verarbeitungsverzeichnis (Vorlage)“. Fuß: nur Inhaber können ändern, andere sehen nur. |
+| 16 Einstellungen → Datenschutz (neu, offener Punkt 7) | **v1 gezeigt** (Sitzung 23), Rückmeldung offen | Einstellungsdialog wie Bild 8, Seite **Datenschutz**, Kennzeichen „Ganze Agentur“, Status „DSGVO-Einstellungen aktiv“. **1 Was gespeichert wird:** 4 Kacheln Kundendaten (nur der Name) · Unterlagen (nur ausgewertet) · Speicherort (Microsoft 365 · EU) · Zugriff (nur Agentur-Konten). **2 KI:** Kundenname vor dem Versand entfernen (immer an, nicht abschaltbar) · Hinweis vor jedem KI-Import (Schalter an). **3 Löschen und Auskunft:** „Kunde endgültig löschen“ (roter Knopf „Kunde wählen …“, alle Übersichten/Aufgaben auf allen Geräten, mit Rückfrage) · „Auskunft für einen Kunden“ (alle Daten als PDF, Art. 15). **Aufbewahrung (Nutzerfrage Sitzung 23 „Wie lange wird die Vertragsübersicht aufbewahrt?“, Entscheidung „Bis zum Löschen + Erinnerung“):** Übersichten bleiben, bis jemand den Kunden löscht; neue Zeile „Alte Kunden zum Löschen vorschlagen“ – ohne Änderung seit [10 Jahren ▾] (einstellbar), Schalter an, nur Hinweis an Inhaber, nichts wird automatisch gelöscht. Ältere Stände: SharePoint-Versionen 30 Tage; nach Löschen Sicherungen noch bis 30 Tage; Protokoll 12 Monate. Gesetzliche Fristen klärt der Nutzer mit Datenschutzbeauftragtem/Kammer. Dialog darf hier etwas höher sein (Klasse `.dsg1`, Achtung: `.ds1` ist schon Bild 10). **4 Protokoll und Dokumentation:** letzte Einträge (wer, welche Übersicht, was, wann), „Ganzes Protokoll öffnen …“, 12 Monate aufbewahrt, Knopf „Verarbeitungsverzeichnis (Vorlage)“. Fuß: nur Inhaber können ändern, andere sehen nur. |
 
 **Nächster Schritt (Sitzung 23):** Lückenliste in Abschnitt 2 **bereinigt** (veraltete Einträge wie „nebeneinander bearbeiten ◐“, „Ganz fehlende Screens“, Bild-Versionen aktualisiert; neue Tabelle „Offene Punkte vor Phase 4“ mit 7 Punkten und Vorschlag Bild/Festlegung). Jetzt die Punkte **einzeln** mit dem Nutzer klären, Ergebnis in Spalte „Entscheidung“ eintragen; danach Freigabe Phase 3.
 
